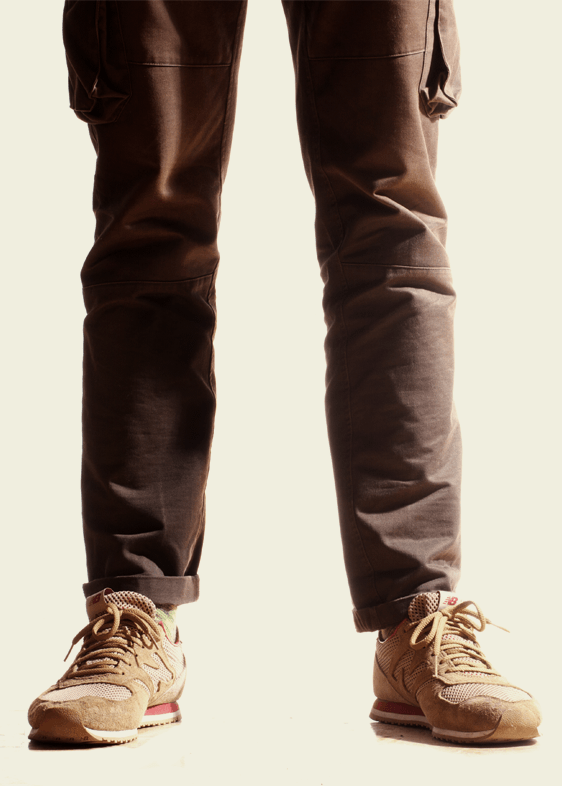
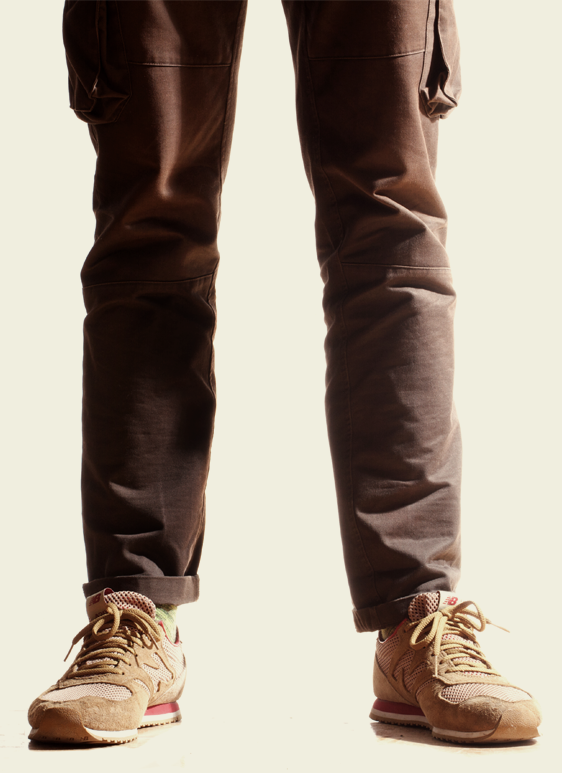
Replaced torso images with higher quality ones

diff --git a/index.php b/index.php
@@ -154,7 +154,7 @@
         </div>
 
         <footer>
-            Copyright 2013 Groundwave Media Group. All Rights Reserved. | Design by <a target="_blank" href="http://www.moxycreative.com">Glenn Michael</a> for <a target="_blank" href="http://www.moxycreative.com">Moxy Creative House</a> | Developed by <a target="_blank" href="http://davidkelley.me">David Kelley</a>
+            Copyright 2013 Groundwave Media Group. All Rights Reserved. | Design by <a target="_blank" href="http://www.moxycreative.com">Glenn Michael</a> for <a target="_blank" href="http://www.moxycreative.com">Moxy Creative House</a>
         </footer>
 
         <script>
